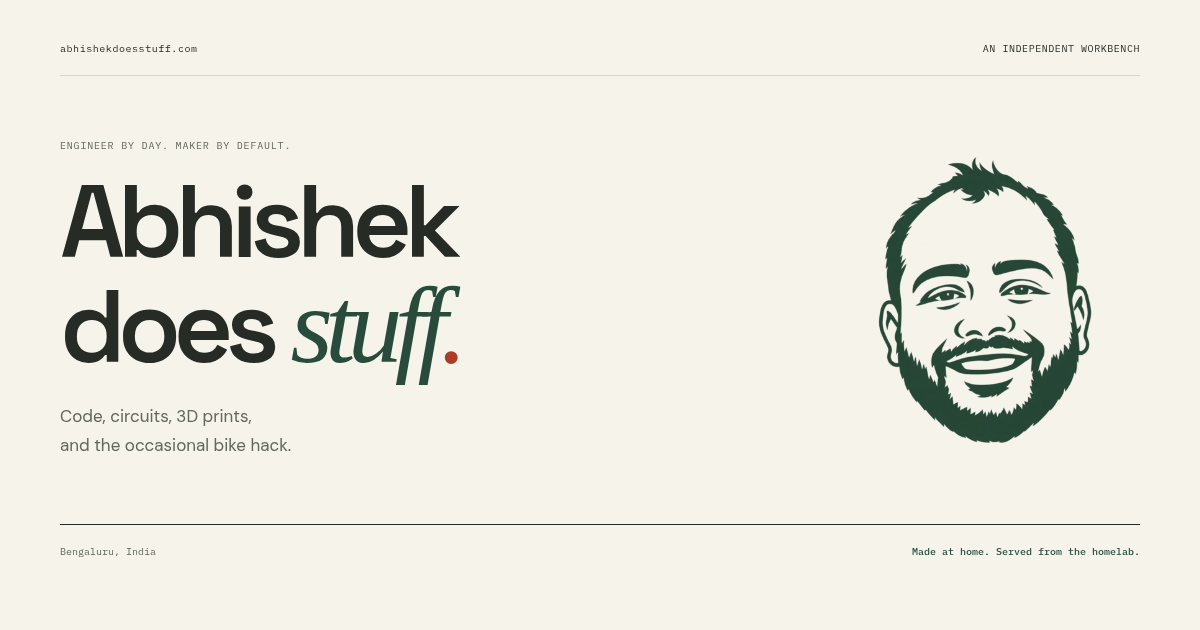
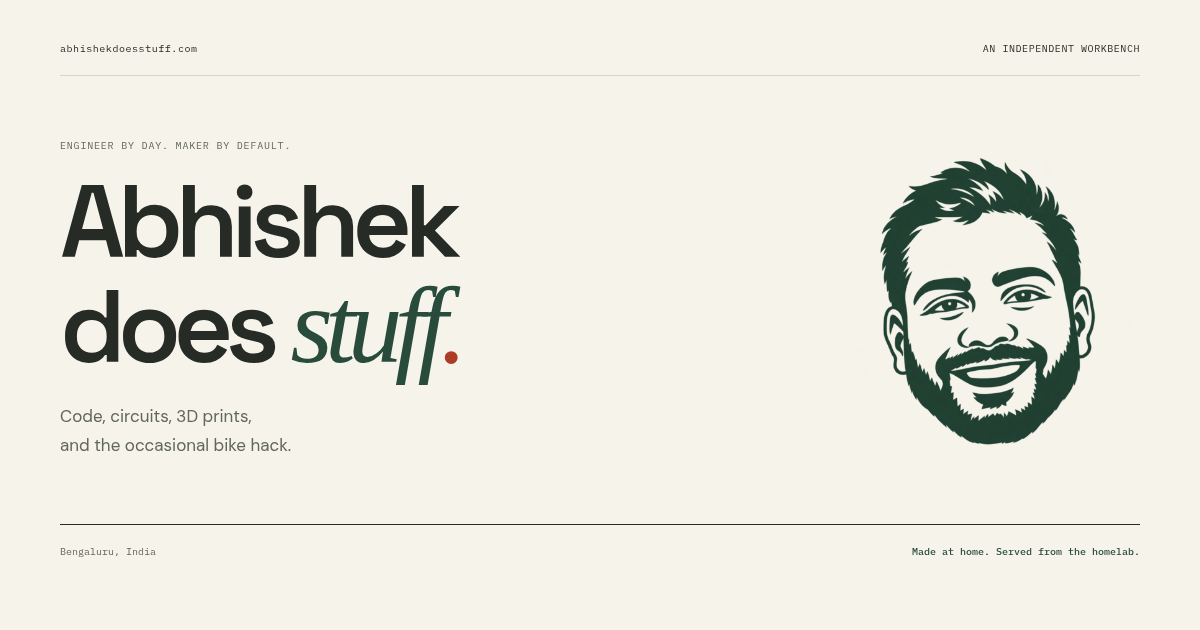
Polish the portrait into a more flattering personal mark

Changed region(s): [[0.7092, 0.2413, 0.925, 0.7238]]

diff --git a/index.html b/index.html
@@ -12,9 +12,9 @@
     <meta name="robots" content="index, follow, max-image-preview:large" />
     <meta name="theme-color" content="#f5f3ea" />
     <link rel="canonical" href="https://abhishekdoesstuff.com/" />
-    <link rel="icon" href="/favicon.ico?v=20261018-1" sizes="any" />
-    <link rel="icon" type="image/png" sizes="48x48" href="/favicon-48.png?v=20261018-1" />
-    <link rel="apple-touch-icon" href="/apple-touch-icon.png?v=20261018-1" />
+    <link rel="icon" href="/favicon.ico?v=20261018-2" sizes="any" />
+    <link rel="icon" type="image/png" sizes="48x48" href="/favicon-48.png?v=20261018-2" />
+    <link rel="apple-touch-icon" href="/apple-touch-icon.png?v=20261018-2" />
     <link
       rel="alternate"
       type="application/rss+xml"
@@ -44,7 +44,7 @@
       content="Practical tools, useful files, honest failures, and the workbench notes that survive after something finally works."
     />
     <meta property="og:url" content="https://abhishekdoesstuff.com/" />
-    <meta property="og:image" content="https://abhishekdoesstuff.com/og.png?v=20261018-1" />
+    <meta property="og:image" content="https://abhishekdoesstuff.com/og.png?v=20261018-2" />
     <meta
       property="og:image:alt"
       content="Abhishek Does Stuff project workbench"
@@ -61,7 +61,7 @@
       name="twitter:description"
       content="Practical ML, CAD, electronics, 3D-printing, and homelab projects from Bengaluru."
     />
-    <meta name="twitter:image" content="https://abhishekdoesstuff.com/og.png?v=20261018-1" />
+    <meta name="twitter:image" content="https://abhishekdoesstuff.com/og.png?v=20261018-2" />
     <meta
       name="twitter:image:alt"
       content="Abhishek Does Stuff project workbench"
@@ -87,7 +87,7 @@
             "name": "Abhishek Bagade",
             "alternateName": "Abhishek Does Stuff",
             "url": "https://abhishekdoesstuff.com/",
-            "image": "https://abhishekdoesstuff.com/favicon-192.png?v=20261018-1",
+            "image": "https://abhishekdoesstuff.com/favicon-192.png?v=20261018-2",
             "description": "ML platform engineer and maker building practical GenAI, CAD, electronics, 3D-printing, and homelab projects.",
             "homeLocation": { "@type": "Place", "name": "Bengaluru, India" },
             "jobTitle": "ML Platform Engineer",
@@ -188,7 +188,7 @@
       href="https://fonts.googleapis.com/css2?family=DM+Sans:wght@400;450;500;600;650;700;750&family=IBM+Plex+Mono:wght@400;500;600&family=Space+Grotesk:wght@400;500;600;700&display=swap"
       rel="stylesheet"
     />
-    <link rel="stylesheet" href="/styles.css?v=20261018-1" />
+    <link rel="stylesheet" href="/styles.css?v=20261018-2" />
   </head>
   <body class="workbench">
     <a class="skip-link" href="#main-content">Skip to content</a>
@@ -196,7 +196,7 @@
       <a class="brand" href="#top" aria-label="Abhishek Does Stuff home"
         ><span class="brand-badge" aria-hidden="true"
           ><img
-            src="/logo-512.webp?v=20261018-1"
+            src="/logo-512.webp?v=20261018-2"
             alt=""
             width="48"
             height="48"

diff --git a/musings.js b/musings.js
@@ -88,7 +88,7 @@ function shell({ title, description, canonicalPath, body, type = "Article", date
 <html lang="en-IN"><head><meta charset="utf-8"><meta name="viewport" content="width=device-width, initial-scale=1"><meta name="theme-color" content="#f5f3ea">
 <title>${escapeHtml(title)} — Abhishek Does Stuff</title>
 <meta name="description" content="${escapeHtml(description)}"><meta name="author" content="Abhishek Bagade"><meta name="robots" content="index, follow, max-image-preview:large">
-<link rel="canonical" href="${canonical}"><link rel="icon" href="/favicon.ico?v=20261018-1" sizes="any">
+<link rel="canonical" href="${canonical}"><link rel="icon" href="/favicon.ico?v=20261018-2" sizes="any">
     <link rel="preconnect" href="https://fonts.googleapis.com" />
     <link rel="preconnect" href="https://fonts.gstatic.com" crossorigin />
     <link
@@ -96,16 +96,16 @@ function shell({ title, description, canonicalPath, body, type = "Article", date
       rel="stylesheet"
     />
 
-<link rel="stylesheet" href="/styles.css?v=20261018-1">
-<meta property="og:type" content="article"><meta property="og:site_name" content="Abhishek Does Stuff"><meta property="og:title" content="${escapeHtml(title)}"><meta property="og:description" content="${escapeHtml(description)}"><meta property="og:url" content="${canonical}"><meta property="og:image" content="${SITE}/og.png?v=20261018-1">
-<meta name="twitter:card" content="summary_large_image"><meta name="twitter:title" content="${escapeHtml(title)}"><meta name="twitter:description" content="${escapeHtml(description)}"><meta name="twitter:image" content="${SITE}/og.png?v=20261018-1">
+<link rel="stylesheet" href="/styles.css?v=20261018-2">
+<meta property="og:type" content="article"><meta property="og:site_name" content="Abhishek Does Stuff"><meta property="og:title" content="${escapeHtml(title)}"><meta property="og:description" content="${escapeHtml(description)}"><meta property="og:url" content="${canonical}"><meta property="og:image" content="${SITE}/og.png?v=20261018-2">
+<meta name="twitter:card" content="summary_large_image"><meta name="twitter:title" content="${escapeHtml(title)}"><meta name="twitter:description" content="${escapeHtml(description)}"><meta name="twitter:image" content="${SITE}/og.png?v=20261018-2">
 <script type="application/ld+json">${JSON.stringify(schema).replaceAll("<", "\\u003c")}</script></head>
 <body class="workbench subpage ${isIndex ? "musing-index" : "musing-article"}" id="page-top"><a class="skip-link" href="#main-content">Skip to content</a>
     <header class="site-header">
       <a class="brand" href="/" aria-label="Abhishek Does Stuff home"
         ><span class="brand-badge" aria-hidden="true"
           ><img
-            src="/logo-512.webp?v=20261018-1"
+            src="/logo-512.webp?v=20261018-2"
             alt=""
             width="48"
             height="48"

diff --git a/notes/stock-picker-experiment.html b/notes/stock-picker-experiment.html
@@ -15,9 +15,9 @@
       rel="canonical"
       href="https://abhishekdoesstuff.com/notes/stock-picker-experiment.html"
     />
-    <link rel="icon" href="/favicon.ico?v=20261018-1" sizes="any" />
-    <link rel="icon" type="image/png" sizes="48x48" href="/favicon-48.png?v=20261018-1" />
-    <link rel="apple-touch-icon" href="/apple-touch-icon.png?v=20261018-1" />
+    <link rel="icon" href="/favicon.ico?v=20261018-2" sizes="any" />
+    <link rel="icon" type="image/png" sizes="48x48" href="/favicon-48.png?v=20261018-2" />
+    <link rel="apple-touch-icon" href="/apple-touch-icon.png?v=20261018-2" />
     <link
       rel="alternate"
       type="application/rss+xml"
@@ -39,7 +39,7 @@
       property="og:url"
       content="https://abhishekdoesstuff.com/notes/stock-picker-experiment.html"
     />
-    <meta property="og:image" content="https://abhishekdoesstuff.com/og.png?v=20261018-1" />
+    <meta property="og:image" content="https://abhishekdoesstuff.com/og.png?v=20261018-2" />
     <meta
       property="og:image:alt"
       content="Abhishek Does Stuff stock picker experiment"
@@ -60,7 +60,7 @@
       name="twitter:description"
       content="An honest negative-result experiment in AI-assisted stock research."
     />
-    <meta name="twitter:image" content="https://abhishekdoesstuff.com/og.png?v=20261018-1" />
+    <meta name="twitter:image" content="https://abhishekdoesstuff.com/og.png?v=20261018-2" />
     <meta
       name="twitter:image:alt"
       content="Abhishek Does Stuff stock picker experiment"
@@ -92,7 +92,7 @@
               "name": "Abhishek Does Stuff",
               "url": "https://abhishekdoesstuff.com/"
             },
-            "image": "https://abhishekdoesstuff.com/og.png?v=20261018-1",
+            "image": "https://abhishekdoesstuff.com/og.png?v=20261018-2",
             "articleSection": "Experiments",
             "keywords": [
               "AI stock picker",
@@ -129,7 +129,7 @@
       href="https://fonts.googleapis.com/css2?family=DM+Sans:wght@400;450;500;600;650;700;750&family=IBM+Plex+Mono:wght@400;500;600&family=Space+Grotesk:wght@400;500;600;700&display=swap"
       rel="stylesheet"
     />
-    <link rel="stylesheet" href="/styles.css?v=20261018-1" />
+    <link rel="stylesheet" href="/styles.css?v=20261018-2" />
   </head>
   <body class="workbench subpage stock-note" id="page-top">
     <a class="skip-link" href="#article-content">Skip to article</a>
@@ -138,7 +138,7 @@
       <a class="brand" href="/" aria-label="Abhishek Does Stuff home"
         ><span class="brand-badge" aria-hidden="true"
           ><img
-            src="/logo-512.webp?v=20261018-1"
+            src="/logo-512.webp?v=20261018-2"
             alt=""
             width="48"
             height="48"

diff --git a/movie-character-llm-experiment/index.html b/movie-character-llm-experiment/index.html
@@ -18,9 +18,9 @@
       rel="canonical"
       href="https://abhishekdoesstuff.com/movie-character-llm-experiment/"
     />
-    <link rel="icon" href="/favicon.ico?v=20261018-1" sizes="any" />
-    <link rel="icon" type="image/png" sizes="48x48" href="/favicon-48.png?v=20261018-1" />
-    <link rel="apple-touch-icon" href="/apple-touch-icon.png?v=20261018-1" />
+    <link rel="icon" href="/favicon.ico?v=20261018-2" sizes="any" />
+    <link rel="icon" type="image/png" sizes="48x48" href="/favicon-48.png?v=20261018-2" />
+    <link rel="apple-touch-icon" href="/apple-touch-icon.png?v=20261018-2" />
     <meta property="og:type" content="article" />
     <meta property="og:locale" content="en_IN" />
     <meta property="og:site_name" content="Abhishek Does Stuff" />
@@ -36,7 +36,7 @@
       property="og:url"
       content="https://abhishekdoesstuff.com/movie-character-llm-experiment/"
     />
-    <meta property="og:image" content="https://abhishekdoesstuff.com/og.png?v=20261018-1" />
+    <meta property="og:image" content="https://abhishekdoesstuff.com/og.png?v=20261018-2" />
     <meta
       property="article:published_time"
       content="2026-10-11T18:30:00+05:30"
@@ -50,7 +50,7 @@
       name="twitter:description"
       content="An experiment in adding recognizable character voice without damaging the intelligence underneath."
     />
-    <meta name="twitter:image" content="https://abhishekdoesstuff.com/og.png?v=20261018-1" />
+    <meta name="twitter:image" content="https://abhishekdoesstuff.com/og.png?v=20261018-2" />
     <script type="application/ld+json">
       {
         "@context": "https://schema.org",
@@ -79,7 +79,7 @@
       href="https://fonts.googleapis.com/css2?family=DM+Sans:wght@400;450;500;600;650;700;750&family=IBM+Plex+Mono:wght@400;500;600&family=Space+Grotesk:wght@400;500;600;700&display=swap"
       rel="stylesheet"
     />
-    <link rel="stylesheet" href="/styles.css?v=20261018-1" />
+    <link rel="stylesheet" href="/styles.css?v=20261018-2" />
     <link rel="stylesheet" href="/character-article.css?v=20261017-4" />
   </head>
   <body class="character-article workbench subpage" id="page-top">
@@ -89,7 +89,7 @@
       <a class="brand" href="/" aria-label="Abhishek Does Stuff home"
         ><span class="brand-badge" aria-hidden="true"
           ><img
-            src="/logo-512.webp?v=20261018-1"
+            src="/logo-512.webp?v=20261018-2"
             alt=""
             width="48"
             height="48"

diff --git a/birds/index.html b/birds/index.html
@@ -12,9 +12,9 @@
     <meta name="robots" content="index, follow, max-image-preview:large" />
     <meta name="theme-color" content="#f5f3ea" />
     <link rel="canonical" href="https://abhishekdoesstuff.com/birds/" />
-    <link rel="icon" href="/favicon.ico?v=20261018-1" sizes="any" />
-    <link rel="icon" type="image/png" sizes="48x48" href="/favicon-48.png?v=20261018-1" />
-    <link rel="apple-touch-icon" href="/apple-touch-icon.png?v=20261018-1" />
+    <link rel="icon" href="/favicon.ico?v=20261018-2" sizes="any" />
+    <link rel="icon" type="image/png" sizes="48x48" href="/favicon-48.png?v=20261018-2" />
+    <link rel="apple-touch-icon" href="/apple-touch-icon.png?v=20261018-2" />
     <meta property="og:type" content="website" />
     <meta property="og:locale" content="en_IN" />
     <meta property="og:site_name" content="Abhishek Does Stuff" />
@@ -24,7 +24,7 @@
       content="A live Bengaluru soundscape arranged as an orrery of historical bird plates. Familiar voices circle close; rare voices travel further—and get more paper."
     />
     <meta property="og:url" content="https://abhishekdoesstuff.com/birds/" />
-    <meta property="og:image" content="https://abhishekdoesstuff.com/og.png?v=20261018-1" />
+    <meta property="og:image" content="https://abhishekdoesstuff.com/og.png?v=20261018-2" />
     <meta name="twitter:card" content="summary_large_image" />
     <link rel="preconnect" href="https://fonts.googleapis.com" />
     <link rel="preconnect" href="https://fonts.gstatic.com" crossorigin />
@@ -32,7 +32,7 @@
       href="https://fonts.googleapis.com/css2?family=DM+Sans:wght@400;450;500;600;650;700;750&family=IBM+Plex+Mono:wght@400;500;600&family=Space+Grotesk:wght@400;500;600;700&display=swap"
       rel="stylesheet"
     />
-    <link rel="stylesheet" href="/styles.css?v=20261018-1" />
+    <link rel="stylesheet" href="/styles.css?v=20261018-2" />
     <link rel="stylesheet" href="/birds.css?v=20261017-4" />
   </head>
   <body class="workbench subpage birds-page" id="page-top">
@@ -43,7 +43,7 @@
       <a class="brand" href="/" aria-label="Abhishek Does Stuff home"
         ><span class="brand-badge" aria-hidden="true"
           ><img
-            src="/logo-512.webp?v=20261018-1"
+            src="/logo-512.webp?v=20261018-2"
             alt=""
             width="48"
             height="48"

diff --git a/debabufy/index.html b/debabufy/index.html
@@ -12,9 +12,9 @@
     <meta name="robots" content="index, follow, max-image-preview:large" />
     <meta name="theme-color" content="#f5f3ea" />
     <link rel="canonical" href="https://abhishekdoesstuff.com/debabufy/" />
-    <link rel="icon" href="/favicon.ico?v=20261018-1" sizes="any" />
-    <link rel="icon" type="image/png" sizes="48x48" href="/favicon-48.png?v=20261018-1" />
-    <link rel="apple-touch-icon" href="/apple-touch-icon.png?v=20261018-1" />
+    <link rel="icon" href="/favicon.ico?v=20261018-2" sizes="any" />
+    <link rel="icon" type="image/png" sizes="48x48" href="/favicon-48.png?v=20261018-2" />
+    <link rel="apple-touch-icon" href="/apple-touch-icon.png?v=20261018-2" />
 
     <meta property="og:type" content="website" />
     <meta property="og:locale" content="en_IN" />
@@ -81,7 +81,7 @@
       href="https://fonts.googleapis.com/css2?family=DM+Sans:wght@400;450;500;600;650;700;750&family=IBM+Plex+Mono:wght@400;500;600&family=Space+Grotesk:wght@400;500;600;700&display=swap"
       rel="stylesheet"
     />
-    <link rel="stylesheet" href="/styles.css?v=20261018-1" />
+    <link rel="stylesheet" href="/styles.css?v=20261018-2" />
   </head>
   <body class="workbench subpage debabufy-page" id="page-top">
     <a class="skip-link" href="#main-content">Skip to content</a>
@@ -91,7 +91,7 @@
       <a class="brand" href="/" aria-label="Abhishek Does Stuff home"
         ><span class="brand-badge" aria-hidden="true"
           ><img
-            src="/logo-512.webp?v=20261018-1"
+            src="/logo-512.webp?v=20261018-2"
             alt=""
             width="48"
             height="48"
